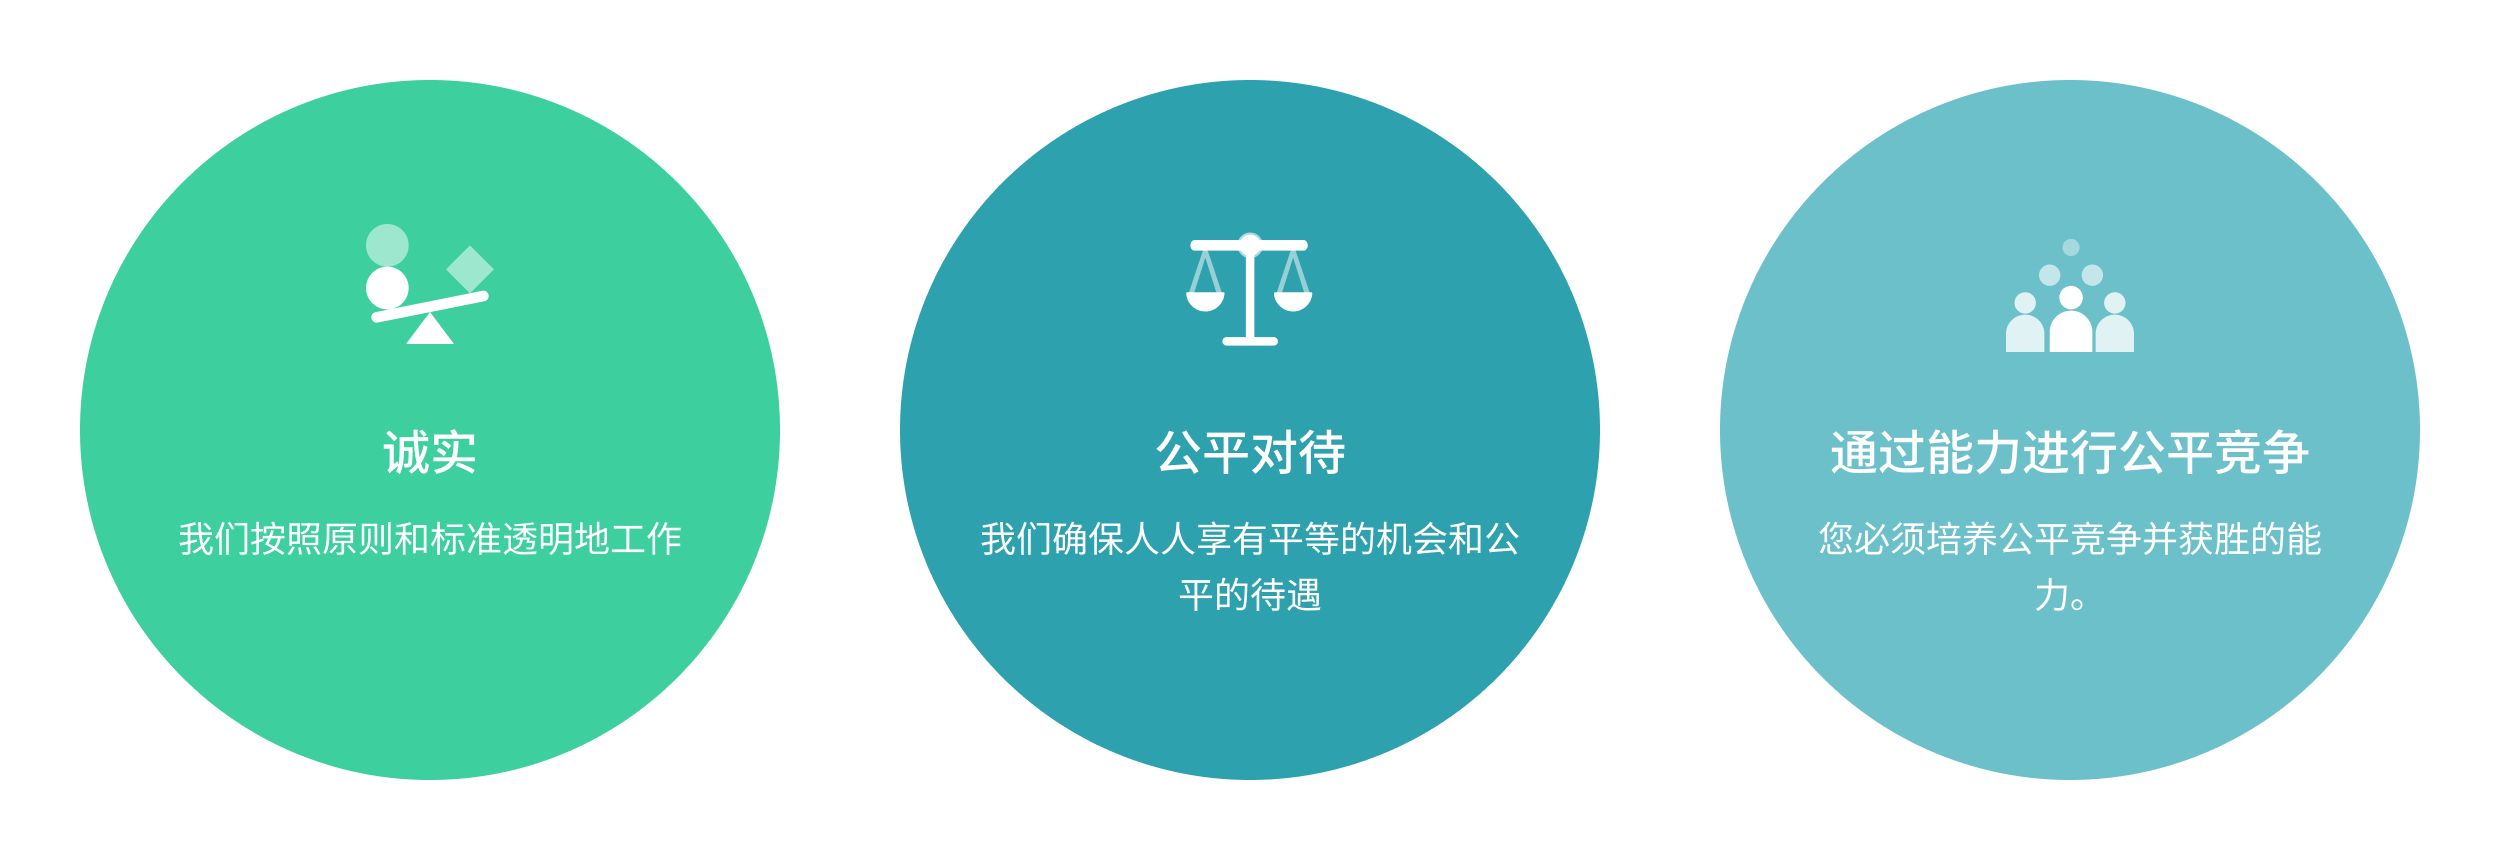
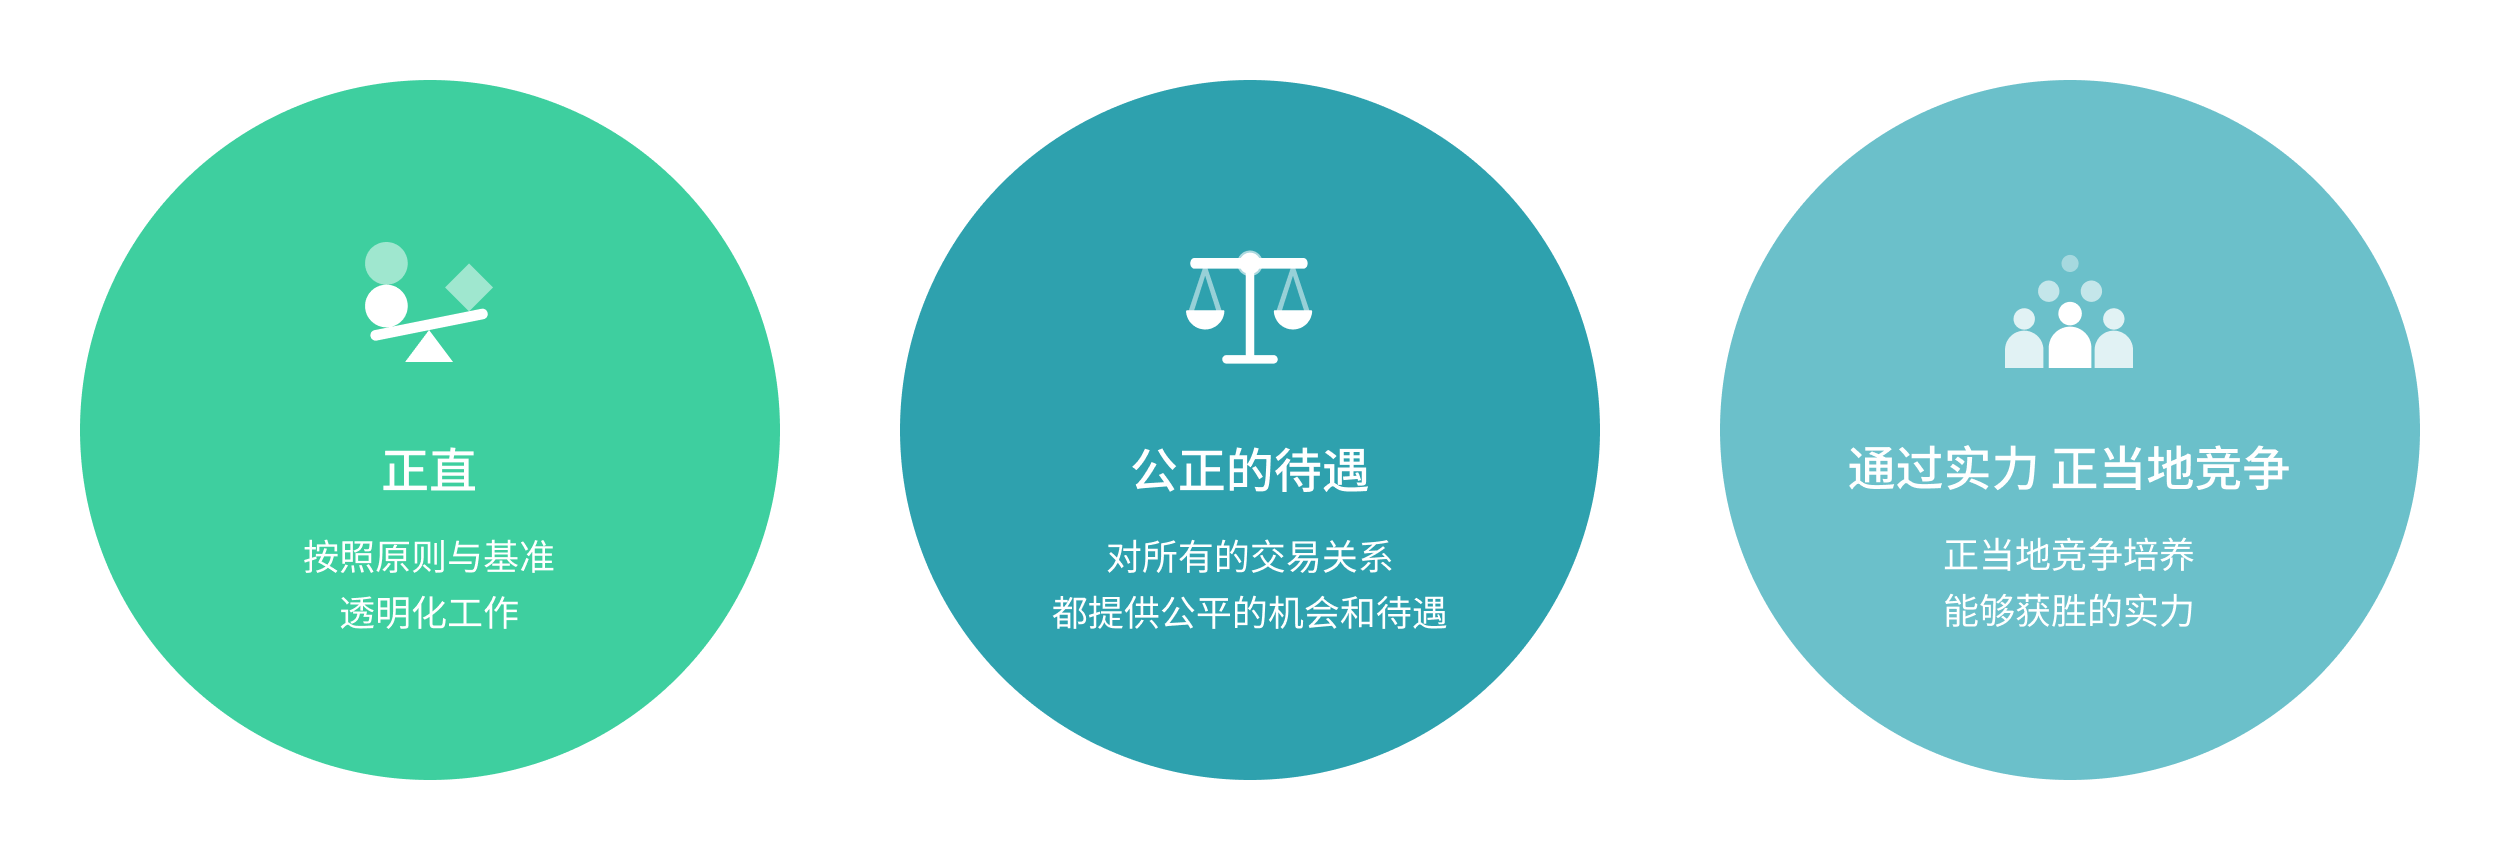
이미지 수정

diff --git a/public/src/pages_cn/comp/comp_int_overview_01_mo.html b/public/src/pages_cn/comp/comp_int_overview_01_mo.html
@@ -701,7 +701,7 @@
                                                                                         <p class="title">2021</p>
                                                                                         <div class="desc-group">
                                                                                             <p class="desc">全球第一家同时加入 RE100 和<br>EV100 的电池企业</p>
-                                                                                            <p class="desc">“与现代汽车集团在印度尼西<br>亚 建立动力电池合资工厂"</p>
+                                                                                            <p class="desc">“与现代汽车集团在印度尼西<br>亚建立动力电池合资工厂"</p>
                                                                                         </div>
                                                                                     </div>
                                                                                 </li>
@@ -790,7 +790,7 @@
                                             <div class="ci-cont">
                                                 <p class="ci-text">
                                                     LOGO指的是标志(Symbol mark)与标识(Logo type)组合之后用来表示LG新能源正式名称的形态。<br>
-                                                    LOGO除了用在LG新能源公司的名称以外，不可用于其他用途，标志(Symbol mark)也不可以单独使用 <!-- 문구 수정 -->
+                                                    LOGO除了用在LG新能源公司的名称以外，不可用于其他用途，标志(Symbol mark)也不可以单独使用。 <!-- 문구 수정 -->
                                                 </p>
                                             </div>
                                             <div class="ci-logo-wrap">

diff --git a/public/src/pages_cn/comp/comp_int_overview_01.html b/public/src/pages_cn/comp/comp_int_overview_01.html
@@ -1121,7 +1121,7 @@
                                                                         <p class="title">2021</p>
                                                                         <div class="desc-group">
                                                                             <p class="desc">全球第一家同时加入 RE100 和EV100 的电池企业</p>
-                                                                            <p class="desc">“与现代汽车集团在印度尼西亚 建立动力电池合资工厂"</p>
+                                                                            <p class="desc">“与现代汽车集团在印度尼西亚建立动力电池合资工厂"</p>
                                                                         </div>
                                                                     </div>
                                                                 </li>
@@ -1215,7 +1215,7 @@
                                             <div class="ci-cont">
                                                 <p class="ci-text">
                                                     LOGO指的是标志(Symbol mark)与标识(Logo type)组合之后用来表示LG新能源正式名称的形态。<br>
-                                                    LOGO除了用在LG新能源公司的名称以外，不可用于其他用途，标志(Symbol mark)也不可以单独使用 <!-- 문구 수정 -->
+                                                    LOGO除了用在LG新能源公司的名称以外，不可用于其他用途，标志(Symbol mark)也不可以单独使用。 <!-- 문구 수정 -->
                                                 </p>
                                             </div>
                                             <div class="ci-logo-wrap">

diff --git a/public/src/pages_cn/serv/serv_baround_01.html b/public/src/pages_cn/serv/serv_baround_01.html
@@ -340,7 +340,7 @@
                                                                     <!-- 줄바꿈 수정 -->
                                                                     作为未来的重要支柱，<br/>
                                                                     通过无与伦比的服务竞争力<br/>
-                                                                    交付 BMTS 服务。
+                                                                    提供 BMTS 服务。
                                                                 </p>
                                                             </div>
                                                         </div>
@@ -459,7 +459,7 @@
                                                                     <img src="../../../inc/images/img/serv02_img_05.png" alt="B.once logo" class="B.once">
                                                                 </div>
                                                                 <p class="top-desc">
-                                                                    基于 SoH/SoC 的二手电动车和电池交易一次性评估服务 SoH/<br/>SoC，评估报告验证电池状况，以支持透明和可靠的交易。<!-- 문구 수정 -->
+                                                                    基于 SoH/SoC 的二手电动车和电池交易一次性评估服务，<br/>评估报告验证电池状况，以支持透明和可靠的交易。<!-- 문구 수정 -->
                                                                 </p>
                                                             </div>
                                                             <div class="e4w-btm">

diff --git a/public/src/pages/recr/recr_hr_principle_01.html b/public/src/pages/recr/recr_hr_principle_01.html
@@ -709,8 +709,8 @@
                                         <p class="desc">
                                             LG에너지솔루션은 “인재가 차별화된 경쟁력의 원천”이라는 믿음을 바탕으로, 성장·도전·실행·협업의 역량을 갖춘 성취지향적 인재를 육성하는 것을 목표로 합니다.<br>
                                             이를 위해 국내외 임직원을 대상으로 체계적인 인재육성 프로그램과 경력개발 제도를 운영하며, 지속가능한 혁신을 추구하고 있습니다.<br>
-                                            이러한 과정을 통해 구성원은 핵심 역량을 갖춘 최고의 전문가로 성장하여, 회사가 지향하는 “대체 불가능한 차별화된 가치를 제공하는 기업”이라는 꿈과 비전을 <br>
-                                            함께 실현해 나가고 있습니다. LG에너지솔루션은 글로벌 임직원 모두가 성장할 수 있도록 아낌없는 지원을 이어가고 있습니다.
+                                            이러한 과정을 통해 구성원은 핵심 역량을 갖춘 최고의 전문가로 성장하여, 회사가 지향하는 “대체 불가능한 차별화된 가치를 제공하는 기업”이라는 꿈과 비전을 함께 실현해 나가고 있습니다.<br>
+                                            LG에너지솔루션은 글로벌 임직원 모두가 성장할 수 있도록 아낌없는 지원을 이어가고 있습니다.
                                         </p>
                                     </div>                                    
                                 </div>

diff --git a/public/src/pages_cn/comp/comp_ethics_overview_01.html b/public/src/pages_cn/comp/comp_ethics_overview_01.html
@@ -304,8 +304,7 @@
                                 <h2 class="title-h2">行为方式</h2>
                                 <div class="content-sect">
                                     <div class="img-area">
-                                        <img src="../../../inc/images/img/etmg_tab1_img2_cn.png" loading="lazy" alt="诚实：我们按照原则和标准透明地工作/公平对待：我们确保人人享有平等的机会和公平的待遇/通过能力进行公平竞争：您必须培养公平竞争并获胜的能力。" class="pc-only"/>
-                                        <img src="../../../inc/images/img/etmg_tab1_img2_mo_cn.png" loading="lazy" alt="诚实：我们按照原则和标准透明地工作/公平对待：我们确保人人享有平等的机会和公平的待遇/通过能力进行公平竞争：您必须培养公平竞争并获胜的能力。" class="mo-only"/>
+                                        <img src="../../../inc/images/img/etmg_tab1_img2_cn.png" loading="lazy" alt="正直：按照原则与基准透明化工作/公正的待遇：对所有的交易关系都提供公平的机会和待遇/通过实力 正当地竞争：正当地竞争培养能够获胜的实力" class="pc-only"/>
                                     </div>
                                 </div>
                             </div>

diff --git a/public/src/pages/recr/recr_hr_principle_01_mo.html b/public/src/pages/recr/recr_hr_principle_01_mo.html
@@ -508,7 +508,7 @@
                                     <div class="content-wrap">
                                         <div class="program-conts-wrap">
                                             <h3 class="title-h3">인재육성 프로그램</h3>
-                                            <p class="desc">LG에너지솔루션은 입사(Beginning), 성장(Growth), 리더십(Leadership) 단계별로 구성원의 커리어 성장을 지원하는 글로벌 맞춤형 교육·개발 체계를 운영하고 있습니다.
+                                            <p class="desc">LG에너지솔루션은 <strong>입사(Beginning), 성장(Growth), 리더십(Leadership)</strong> 단계별로 구성원의 커리어 성장을 지원하는 글로벌 맞춤형 교육·개발 체계를 운영하고 있습니다.
                                                 각 단계에서 필요한 역량과 경력을 쌓을 수 있도록 다양한 프로그램을 제공하며, 글로벌 환경에서의 소통 능력 향상도 함께 지원합니다.
                                                 이러한 체계를 통해 구성원이 회사와 함께 지속적으로 성장할 수 있는 기반을 마련하고 있습니다.</p>
                                             <div class="program-img-box">

diff --git a/public/src/pages_cn/serv/serv_baround_01_mo.html b/public/src/pages_cn/serv/serv_baround_01_mo.html
@@ -304,7 +304,7 @@
                                                                         <img src="../../../inc/images/img/serv02_img_05.png" alt="B.once logo" class="B.once">
                                                                     </div>
                                                                     <p class="top-desc">
-                                                                        基于 SoH/SoC 的二手电动车和电池交易一次性评估服务 SoH/SoC，评估报告验证电池状况，以支持透明和可靠的交易。<!-- 문구 수정 -->
+                                                                        基于 SoH/SoC 的二手电动车和电池交易一次性评估服务，评估报告验证电池状况，以支持透明和可靠的交易。<!-- 문구 수정 -->
                                                                     </p>
                                                                 </div>
                                                                 <div class="e4w-btm">

diff --git a/public/src/pages_cn/serv/serv_blifecare_01_mo.html b/public/src/pages_cn/serv/serv_blifecare_01_mo.html
@@ -221,7 +221,7 @@
                                                                     <img src="../../../inc/images/img/serv03_icon_09_mo.png" alt=""> 
                                                                     <h4 class="detail-tit">电池保养</h4>
                                                                 </div>
-                                                                <p class="detail-desc">提供近期行驶里程、驾驶时间和效率数据，并基于当前电池电量估算剩余续航里程。</p>
+                                                                <p class="detail-desc">通过分析电池的当前容量与安全状态等性能指标，并结合个人驾驶习惯数据，预测并提供电池的未来使用寿命。</p>
                                                             </div>
                                                             <div class="detail-box">
                                                                 <div class="detail-top">

diff --git a/public/src/pages_cn/serv/serv_blifecare_01.html b/public/src/pages_cn/serv/serv_blifecare_01.html
@@ -375,7 +375,7 @@
                                                             </div>
                                                             <div class="detail-txt">
                                                                 <h4 class="detail-tit">电池保养</h4>
-                                                                <p class="detail-desc">提供近期行驶里程、驾驶时间和效率数据，并基于当前电池电量估算剩余续航里程。</p>
+                                                                <p class="detail-desc">通过分析电池的当前容量与安全状态等性能指标，并结合个人驾驶习惯数据，预测并提供电池的未来使用寿命。</p>
                                                             </div>
                                                         </div>
                                                         <div class="detail-box">

diff --git a/public/src/pages/sust/sust_gov_bod_01_mo.html b/public/src/pages/sust/sust_gov_bod_01_mo.html
@@ -1283,7 +1283,7 @@
                                 <div class="tab-content" id="tab6-content">
                                     <div class="content-item01">
                                         <div class="content-wrap">
-                                            <h2 class="title-h2">공정거래</h2>
+                                            <h1 class="title-h1">공정거래</h1>
                                             <p class="title-desc">
                                                 <!-- 11.26 수정 : strong 추가 -->
                                                 LG에너지솔루션은 <strong>공정거래 자율준수 문화를 정착시키기 위해 CP(공정거래 자율준수 프로그램) 기반의 공정거래 체계를 엄격히 관리</strong>합니다.<br/>

diff --git a/public/inc/css/Default/pages.css b/public/inc/css/Default/pages.css
@@ -2586,7 +2586,7 @@ html:lang(en) .rolling-banner-gradient-right::before{height:258px;}
 .container-box-area .title > span {font-size: 1.125rem; font-weight: 400; line-height: 1.8rem;}
 .process-cont-wrap .title-h3 {margin-bottom: 1.25rem !important;}
 .process-cont-wrap .desc {font-size: 1.125rem; line-height: 1.8rem; font-weight: 400; color: #171819;}
-.program-conts-wrap > .desc {font-size: 1.25rem; font-weight: 400; line-height: 2rem; color: #171819; padding-top: 1.25rem;}
+.program-conts-wrap > .desc {font-size: 1.125rem; font-weight: 400; line-height: 2rem; color: #171819; padding-top: 1.25rem;}
 .program-conts-wrap > .desc strong {font-weight: 600;}
 .program-conts-wrap .program-img-box {padding: 5rem 0;text-align: center;}
 .program-conts-wrap .program-img-box img{max-width:56.5rem;}

diff --git a/public/inc/css/media/pages.css b/public/inc/css/media/pages.css
@@ -1348,6 +1348,9 @@
 .sgov .title-desc + .title-desc {margin-top: 0.5rem;}
 .sgov [class^="title-h"] + .title-desc {margin-top: 1rem;}
 .sgov .title-h2 + .title-desc {font-size: 1.125rem;line-height: 1.75rem;}
+.sgov h2.title-h1{font-size:1.5rem;line-height: 2.0625rem;}
+.sgov h1.title-h1{font-size:1.5rem;line-height: 2.0625rem;}
+.sgov .title-h1 + .title-desc {font-size: 1.125rem;line-height: 1.75rem;}
 .sgov [class^="content-item"] .content-sect:has(> .accordion-list.type2) {padding-top: 1.5rem;}
 
 .sgov [class^="content-item"] .content-sect:has(.bod-status) {padding-top: 3rem;}
